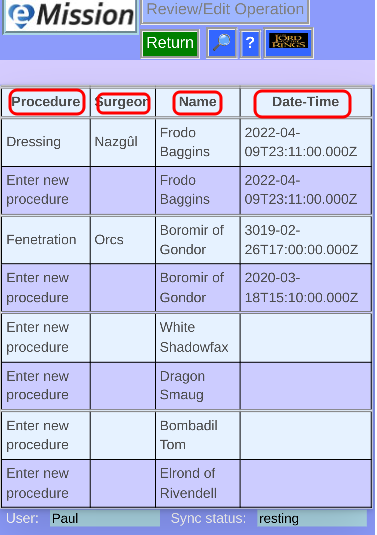
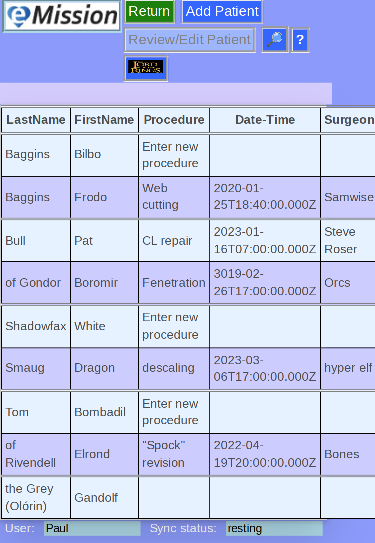
Simpler selection of patient -- single click

diff --git a/js/app.js b/js/app.js
@@ -1233,7 +1233,7 @@ class PatientData extends PatientDataRaw {
 }
 
 class PatientDataEditMode extends PatientDataRaw {
-    // starts withg "EDIT" clicked
+    // starts with "EDIT" clicked
     constructor(...args) {
         super(true,...args); // clicked = true
         this.clickEditButtons() ;
@@ -3127,10 +3127,12 @@ class SortTable {
             let row = tbody.insertRow(-1);
             let record = doc.doc;
             row.setAttribute("data-id",record._id);
+            /*
             row.addEventListener( 'click', () => {
                 this.selectFunc( record._id );
             });
-            ['dblclick','swiped-right','swiped-left'].forEach( (e) =>
+            * */
+            ['click','dblclick','swiped-right','swiped-left'].forEach( (e) =>
                 row.addEventListener( e, () => {
                     this.selectFunc( record._id );
                     this.editpage();
